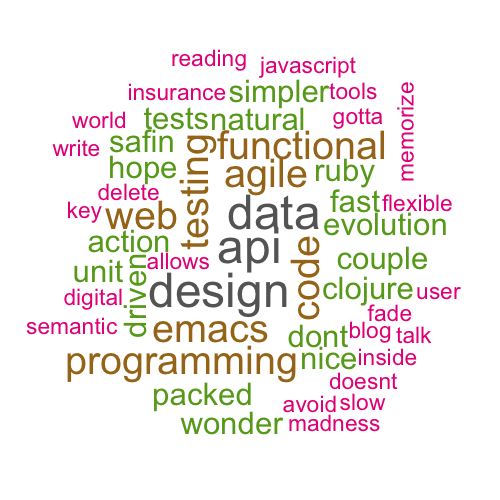
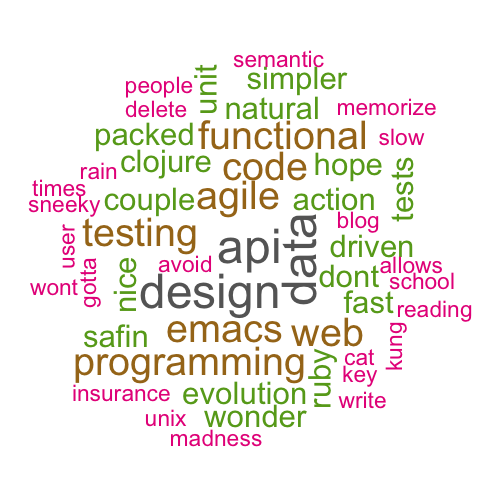
adding semantic web to blog

Changed region(s): [[0.06, 0.09, 0.96, 0.9]]

diff --git a/_includes/cloud.html b/_includes/cloud.html
@@ -1,1 +1,1 @@
-<a href="/tags/abtesting.html" id="tag" title="Postings tagged abtesting" style="font-size: 12.4px; line-height:12.4px">abtesting</a> <a href="/tags/automations.html" id="tag" title="Postings tagged automations" style="font-size: 17.2px; line-height:17.2px">automations</a> <a href="/tags/clojure.html" id="tag" title="Postings tagged clojure" style="font-size: 14.8px; line-height:14.8px">clojure</a> <a href="/tags/data.html" id="tag" title="Postings tagged data" style="font-size: 23.2px; line-height:23.2px">data</a> <a href="/tags/emacs.html" id="tag" title="Postings tagged emacs" style="font-size: 13.6px; line-height:13.6px">emacs</a> <a href="/tags/google.html" id="tag" title="Postings tagged google" style="font-size: 11.2px; line-height:11.2px">google</a> <a href="/tags/guitar.html" id="tag" title="Postings tagged guitar" style="font-size: 11.2px; line-height:11.2px">guitar</a> <a href="/tags/health.html" id="tag" title="Postings tagged health" style="font-size: 11.2px; line-height:11.2px">health</a> <a href="/tags/javascript.html" id="tag" title="Postings tagged javascript" style="font-size: 11.2px; line-height:11.2px">javascript</a> <a href="/tags/keyboard.html" id="tag" title="Postings tagged keyboard" style="font-size: 11.2px; line-height:11.2px">keyboard</a> <a href="/tags/machinelearning.html" id="tag" title="Postings tagged machinelearning" style="font-size: 16.0px; line-height:16.0px">machinelearning</a> <a href="/tags/mathematics.html" id="tag" title="Postings tagged mathematics" style="font-size: 11.2px; line-height:11.2px">mathematics</a> <a href="/tags/matlab.html" id="tag" title="Postings tagged matlab" style="font-size: 11.2px; line-height:11.2px">matlab</a> <a href="/tags/montecarlo.html" id="tag" title="Postings tagged montecarlo" style="font-size: 12.4px; line-height:12.4px">montecarlo</a> <a href="/tags/org-mode.html" id="tag" title="Postings tagged org-mode" style="font-size: 12.4px; line-height:12.4px">org-mode</a> <a href="/tags/photo.html" id="tag" title="Postings tagged photo" style="font-size: 11.2px; line-height:11.2px">photo</a> <a href="/tags/processing.html" id="tag" title="Postings tagged processing" style="font-size: 11.2px; line-height:11.2px">processing</a> <a href="/tags/prolog.html" id="tag" title="Postings tagged prolog" style="font-size: 11.2px; line-height:11.2px">prolog</a> <a href="/tags/r.html" id="tag" title="Postings tagged r" style="font-size: 19.6px; line-height:19.6px">r</a> <a href="/tags/ruby.html" id="tag" title="Postings tagged ruby" style="font-size: 18.4px; line-height:18.4px">ruby</a> <a href="/tags/selenium.html" id="tag" title="Postings tagged selenium" style="font-size: 12.4px; line-height:12.4px">selenium</a> <a href="/tags/semanticweb.html" id="tag" title="Postings tagged semanticweb" style="font-size: 11.2px; line-height:11.2px">semanticweb</a> <a href="/tags/sicp.html" id="tag" title="Postings tagged sicp" style="font-size: 11.2px; line-height:11.2px">sicp</a> <a href="/tags/sql.html" id="tag" title="Postings tagged sql" style="font-size: 11.2px; line-height:11.2px">sql</a> <a href="/tags/statistics.html" id="tag" title="Postings tagged statistics" style="font-size: 26.8px; line-height:26.8px">statistics</a> <a href="/tags/twitter.html" id="tag" title="Postings tagged twitter" style="font-size: 12.4px; line-height:12.4px">twitter</a> <a href="/tags/webcrawler.html" id="tag" title="Postings tagged webcrawler" style="font-size: 12.4px; line-height:12.4px">webcrawler</a> 
+<a property="dc:subject" href="/tags/abtesting.html" id="tag" title="Postings tagged abtesting" style="font-size: 12.4px; line-height:12.4px">abtesting</a> <a property="dc:subject" href="/tags/automations.html" id="tag" title="Postings tagged automations" style="font-size: 17.2px; line-height:17.2px">automations</a> <a property="dc:subject" href="/tags/clojure.html" id="tag" title="Postings tagged clojure" style="font-size: 14.8px; line-height:14.8px">clojure</a> <a property="dc:subject" href="/tags/data.html" id="tag" title="Postings tagged data" style="font-size: 23.2px; line-height:23.2px">data</a> <a property="dc:subject" href="/tags/emacs.html" id="tag" title="Postings tagged emacs" style="font-size: 13.6px; line-height:13.6px">emacs</a> <a property="dc:subject" href="/tags/google.html" id="tag" title="Postings tagged google" style="font-size: 11.2px; line-height:11.2px">google</a> <a property="dc:subject" href="/tags/guitar.html" id="tag" title="Postings tagged guitar" style="font-size: 11.2px; line-height:11.2px">guitar</a> <a property="dc:subject" href="/tags/health.html" id="tag" title="Postings tagged health" style="font-size: 11.2px; line-height:11.2px">health</a> <a property="dc:subject" href="/tags/javascript.html" id="tag" title="Postings tagged javascript" style="font-size: 11.2px; line-height:11.2px">javascript</a> <a property="dc:subject" href="/tags/keyboard.html" id="tag" title="Postings tagged keyboard" style="font-size: 11.2px; line-height:11.2px">keyboard</a> <a property="dc:subject" href="/tags/machinelearning.html" id="tag" title="Postings tagged machinelearning" style="font-size: 16.0px; line-height:16.0px">machinelearning</a> <a property="dc:subject" href="/tags/mathematics.html" id="tag" title="Postings tagged mathematics" style="font-size: 11.2px; line-height:11.2px">mathematics</a> <a property="dc:subject" href="/tags/matlab.html" id="tag" title="Postings tagged matlab" style="font-size: 11.2px; line-height:11.2px">matlab</a> <a property="dc:subject" href="/tags/montecarlo.html" id="tag" title="Postings tagged montecarlo" style="font-size: 12.4px; line-height:12.4px">montecarlo</a> <a property="dc:subject" href="/tags/org-mode.html" id="tag" title="Postings tagged org-mode" style="font-size: 12.4px; line-height:12.4px">org-mode</a> <a property="dc:subject" href="/tags/photo.html" id="tag" title="Postings tagged photo" style="font-size: 11.2px; line-height:11.2px">photo</a> <a property="dc:subject" href="/tags/processing.html" id="tag" title="Postings tagged processing" style="font-size: 11.2px; line-height:11.2px">processing</a> <a property="dc:subject" href="/tags/prolog.html" id="tag" title="Postings tagged prolog" style="font-size: 11.2px; line-height:11.2px">prolog</a> <a property="dc:subject" href="/tags/r.html" id="tag" title="Postings tagged r" style="font-size: 19.6px; line-height:19.6px">r</a> <a property="dc:subject" href="/tags/ruby.html" id="tag" title="Postings tagged ruby" style="font-size: 18.4px; line-height:18.4px">ruby</a> <a property="dc:subject" href="/tags/selenium.html" id="tag" title="Postings tagged selenium" style="font-size: 12.4px; line-height:12.4px">selenium</a> <a property="dc:subject" href="/tags/semanticweb.html" id="tag" title="Postings tagged semanticweb" style="font-size: 11.2px; line-height:11.2px">semanticweb</a> <a property="dc:subject" href="/tags/sicp.html" id="tag" title="Postings tagged sicp" style="font-size: 11.2px; line-height:11.2px">sicp</a> <a property="dc:subject" href="/tags/sql.html" id="tag" title="Postings tagged sql" style="font-size: 11.2px; line-height:11.2px">sql</a> <a property="dc:subject" href="/tags/statistics.html" id="tag" title="Postings tagged statistics" style="font-size: 26.8px; line-height:26.8px">statistics</a> <a property="dc:subject" href="/tags/twitter.html" id="tag" title="Postings tagged twitter" style="font-size: 12.4px; line-height:12.4px">twitter</a> <a property="dc:subject" href="/tags/webcrawler.html" id="tag" title="Postings tagged webcrawler" style="font-size: 12.4px; line-height:12.4px">webcrawler</a> 

diff --git a/_layouts/default.html b/_layouts/default.html
@@ -1,18 +1,26 @@
-<!DOCTYPE html PUBLIC "-//W3C//DTD XHTML 1.0 Strict//EN" "http://www.w3.org/TR/xhtml1/DTD/xhtml1-strict.dtd">
 
-<html xmlns="http://www.w3.org/1999/xhtml" xml:lang="en" lang="en-us">
+<?xml version="1.0" encoding="UTF-8"?>
+<!DOCTYPE html PUBLIC "-//W3C//DTD XHTML+RDFa 1.0//EN"
+    "http://www.w3.org/MarkUp/DTD/xhtml-rdfa-1.dtd">
+<html xmlns="http://www.w3.org/1999/xhtml" 
+      xml:lang="en"
+      xmlns:foaf="http://xmlns.com/foaf/0.1/"
+      xmlns:dc="http://purl.org/dc/elements/1.1/"
+      version="XHTML+RDFa 1.0">
 <head>
     
 <!-- META -->
 <meta http-equiv="content-type" content="text/html; charset=utf-8" />
 <title>{% unless page.home %}{{ page.title }} - {% endunless %} {{ site.title }}</title>
-<meta name="author" content="{{ site.author }}" />
+<base href="{{site.url}}" />
+<meta name="author" property="dc:creator" content="{{ site.author }}" />
 <meta name="description" content="{% if page.home %}{{ site.author }}{% endif %}{{ page.title }}" />
 <meta name="keywords" content="{{ site.keywords }}" />
 <meta name="robots" content="all,follow" />
 <meta name="google-site-verification" content="5FljcF-364B5I6-KW19BXYLGQEm23cqHJbVDzS7x6Os" />
 <link href="/atom.xml" rel="alternate" title="" type="application/atom+xml" />
 <link rel="shortcut icon" href="/favicon.ico" type="image/x-icon"/>
+<link rel="foaf:primaryTopic" href="{{site.url}}/#me" />
 
 <!-- CSS -->
 <link rel="stylesheet" href="/css/blueprint/screen.css"
@@ -48,10 +56,10 @@ var s = document.getElementsByTagName('script')[0]; s.parentNode.insertBefore(ga
 <body>
 
 <div class="patt">
-<div id="container">
+<div id="container" about="{{site.url}}">
   
 <div id="header">
-  <h1><a href="/" id="title" title="{{site.title}}">Al3xandr3</a></h1>
+  <h1><a href="/" id="title" property="foaf:Title" title="{{site.title}}">Al3xandr3</a></h1>
   <ul id="nav">
     <li><a href="/pages/quotes.html">quotes</a></li>
     <li><a href="/pages/code.html">code</a></li>
@@ -66,11 +74,11 @@ var s = document.getElementsByTagName('script')[0]; s.parentNode.insertBefore(ga
 
 
 <div id="footer">
-  <div class="description">
+  <div class="description" about="{{site.url}}/#me">
     <h2>About</h2>
-    <img class="portrait" src="http://al3xandr3.github.com/img/al3xandr3.png" />
+    <img class="portrait" rel="foaf:img" src="http://al3xandr3.github.com/img/al3xandr3.png" />
 
-    <p>A software engineer with a passion for Data. <span id="contacts">Find me on: <a href="skype:al3x.martins?userinfo">skype</a> <a href="http://www.linkedin.com/in/al3xandr3">linkedin</a> <a href="http://twitter.com/al3xandr3">twitter</a> <a href="http://github.com/al3xandr3">github</a> <a href="http://www.freebase.com/view/m/0hn_w5d">freebase</a><br><strong>Alexandre Matos Martins</strong></p>
+    <p><span property="foaf:interest">A software engineer with a passion for Data. </span><span id="contacts">Find me on: <a rel="foaf:skypeID" href="skype:al3x.martins?userinfo">skype</a> <a rel="foaf:OnlineAccount" href="http://www.linkedin.com/in/al3xandr3">linkedin</a> <a rel="foaf:OnlineAccount" href="http://twitter.com/al3xandr3">twitter</a> <a rel="foaf:OnlineAccount" href="http://github.com/al3xandr3">github</a> <a rel="foaf:OnlineAccount" href="http://www.freebase.com/view/m/0hn_w5d">freebase</a><br> aka <i><span property="foaf:nick">al3xandr3</span></i><br><strong><span property="foaf:creator">Alexandre Matos Martins</span></strong></p>
 	
   </div>
   <div class="follow">

diff --git a/index.html b/index.html
@@ -4,21 +4,21 @@ home: true
 ---
 
 {% for post in paginator.posts %}
-<div class="post">
+<div class="post" about="{{post.url}}">
   
   <div class="content">
     <div class="quote-post"></div>
-      <h3><a class="post-link" href="{{ post.url }}">{{ post.title }}</a></h3>
+      <h3><a class="post-link" rel="foaf:homepage" href="{{post.url}}">{{ post.title }}</a></h3>
       <div class="description">
-        <p>
+        <p property="dc:description">
         {{post.intro}}
         </p>
       </div>
     </div>
- 
+
 
   <div class="sidebar"> 
-    <ul>	            				
+    <ul>
       <li class="date"><h2>{{post.date | date_to_string}}</h2></li>
       <li class="permalink"><a href="{{ post.url }}">Read</a></li>
     </ul>
@@ -35,7 +35,7 @@ home: true
 <div style="text-transform:lowercase;" class="footer-nav clearfix">
 <div id="paginator" style="text-align: center;font-size: 1.3em; line-height: 4em;">
   {% if paginator.previous_page %}
-    <a id="paginator_navigate" class="previous-page" href="/{%if paginator.previous_page > 1 %}page{{ paginator.previous_page }}/{% endif %}" >&laquo;&nbsp;Newer</a>
+    <a id="paginator_navigate" class="previous-page" rel="prev" href="/{%if paginator.previous_page > 1 %}page{{ paginator.previous_page }}/{% endif %}" >&laquo;&nbsp;Newer</a>
   {% endif %}
 
   {% for page in (1..paginator.total_pages) %}
@@ -47,7 +47,7 @@ home: true
   {% endfor %}
 
   {% if paginator.next_page %}
-    <a id="paginator_navigate" class="next-page"  href="/page{{ paginator.next_page }}/" >Older&nbsp;&raquo;</a>
+    <a id="paginator_navigate" class="next-page" rel="next" href="/page{{ paginator.next_page }}/" >Older&nbsp;&raquo;</a>
   {% endif %}
 </div>
 </div>

diff --git a/_layouts/post.html b/_layouts/post.html
@@ -2,15 +2,15 @@
 layout: default
 ---
 
-<div class="post">
+<div class="post" about="{{page.url}}">
   
   <div class="content-page">
     <div class="text-post"></div>
-      <h3><a href="{{ page.url }}">{{ page.title }}</a></h3>
+      <h3><a href="{{ page.url }}" property="dc:title">{{ page.title }}</a></h3>
 
       <div class="description" id="post-content">    
         {{ content }}
-        <p style="float:right"><i>{{page.date | date_to_string}}</i></p>
+        <p style="float:right"><i><span property="dc:date" content="{{ page.date | date_to_xmlschema }}">{{ page.date | date_to_string }}</span> - <span property="dc:creator">al3xandr3</span></i></p>
       </div>
     </div>
     
@@ -18,7 +18,7 @@ layout: default
     <span id="post-details" style="float:right;font-size:1.2em;margin-right:29px">
     <p class="tags" >
     {% for cat in page.categories %}
-    <a class="post-cat" href="/tags/{{cat}}.html" id="tag">{{cat}}</a>
+    <a class="post-cat" href="/tags/{{cat}}.html" id="tag" property="dc:subject">{{cat}}</a>
     {% endfor %}
     </p>
     </span>

diff --git a/_layouts/page.html b/_layouts/page.html
@@ -2,10 +2,10 @@
 layout: default
 ---
 
-<div class="post">  
+<div class="post" about="{{page.url}}">  
 <div class="content-page">
   <div class="link-post"></div>
-  <h3><a href="{{ page.url }}">{{ page.title }}</a></h3>
+  <h3><a href="{{ page.url }}" property="dc:title">{{ page.title }}</a></h3>
   <div class="description"  id="post-content">        
   <div id="{% if page.title == 'About' %}about{% else %}page{% endif %}">
     {{ content }}

diff --git a/cloud.rb b/cloud.rb
@@ -13,7 +13,7 @@ html = ""
 site.categories.sort.each do |category, posts|
   s = posts.count
   font_size = 10 + (s*1.2);
-  html << "<a href=\"/tags/#{category}.html\" id=\"tag\" title=\"Postings tagged #{category}\" style=\"font-size: #{font_size}px; line-height:#{font_size}px\">#{category}</a> "
+  html << "<a property=\"dc:subject\" href=\"/tags/#{category}.html\" id=\"tag\" title=\"Postings tagged #{category}\" style=\"font-size: #{font_size}px; line-height:#{font_size}px\">#{category}</a> "
 end
 
 File.open('/my/proj/al3xandr3.github.com/_includes/cloud.html', 'w+') do |file|

diff --git a/_posts/2011-12-18-data.md b/_posts/2011-12-18-data.md
@@ -22,7 +22,7 @@ computer: excessive ingestion of foods with fat and cholesterol leads to increas
 
 person: what now?
 
-computer: Recommend better nutrition. I estimate that ideal diet with exercise can reduce the risk close to 1% in about 2-3 weeks. Should i generate a recovery plan?
+computer: Recommend better nutrition. I estimate that ideal diet with exercise can reduce the risk close to 1% in about 2-3 weeks. Should i create a recovery plan?
 
 person: yes
 
@@ -43,7 +43,7 @@ computer: ok, you are signed up for them. I will also be guiding your meals and 
 person: thanks
 
 
-#### A few weeks after, at the workplace
+#### A few weeks after at the workplace
 
 computer: Your heart attack risk has decreased to close to 1%. Recover plan has been successful, you are now back to normal healthy levels.
 
